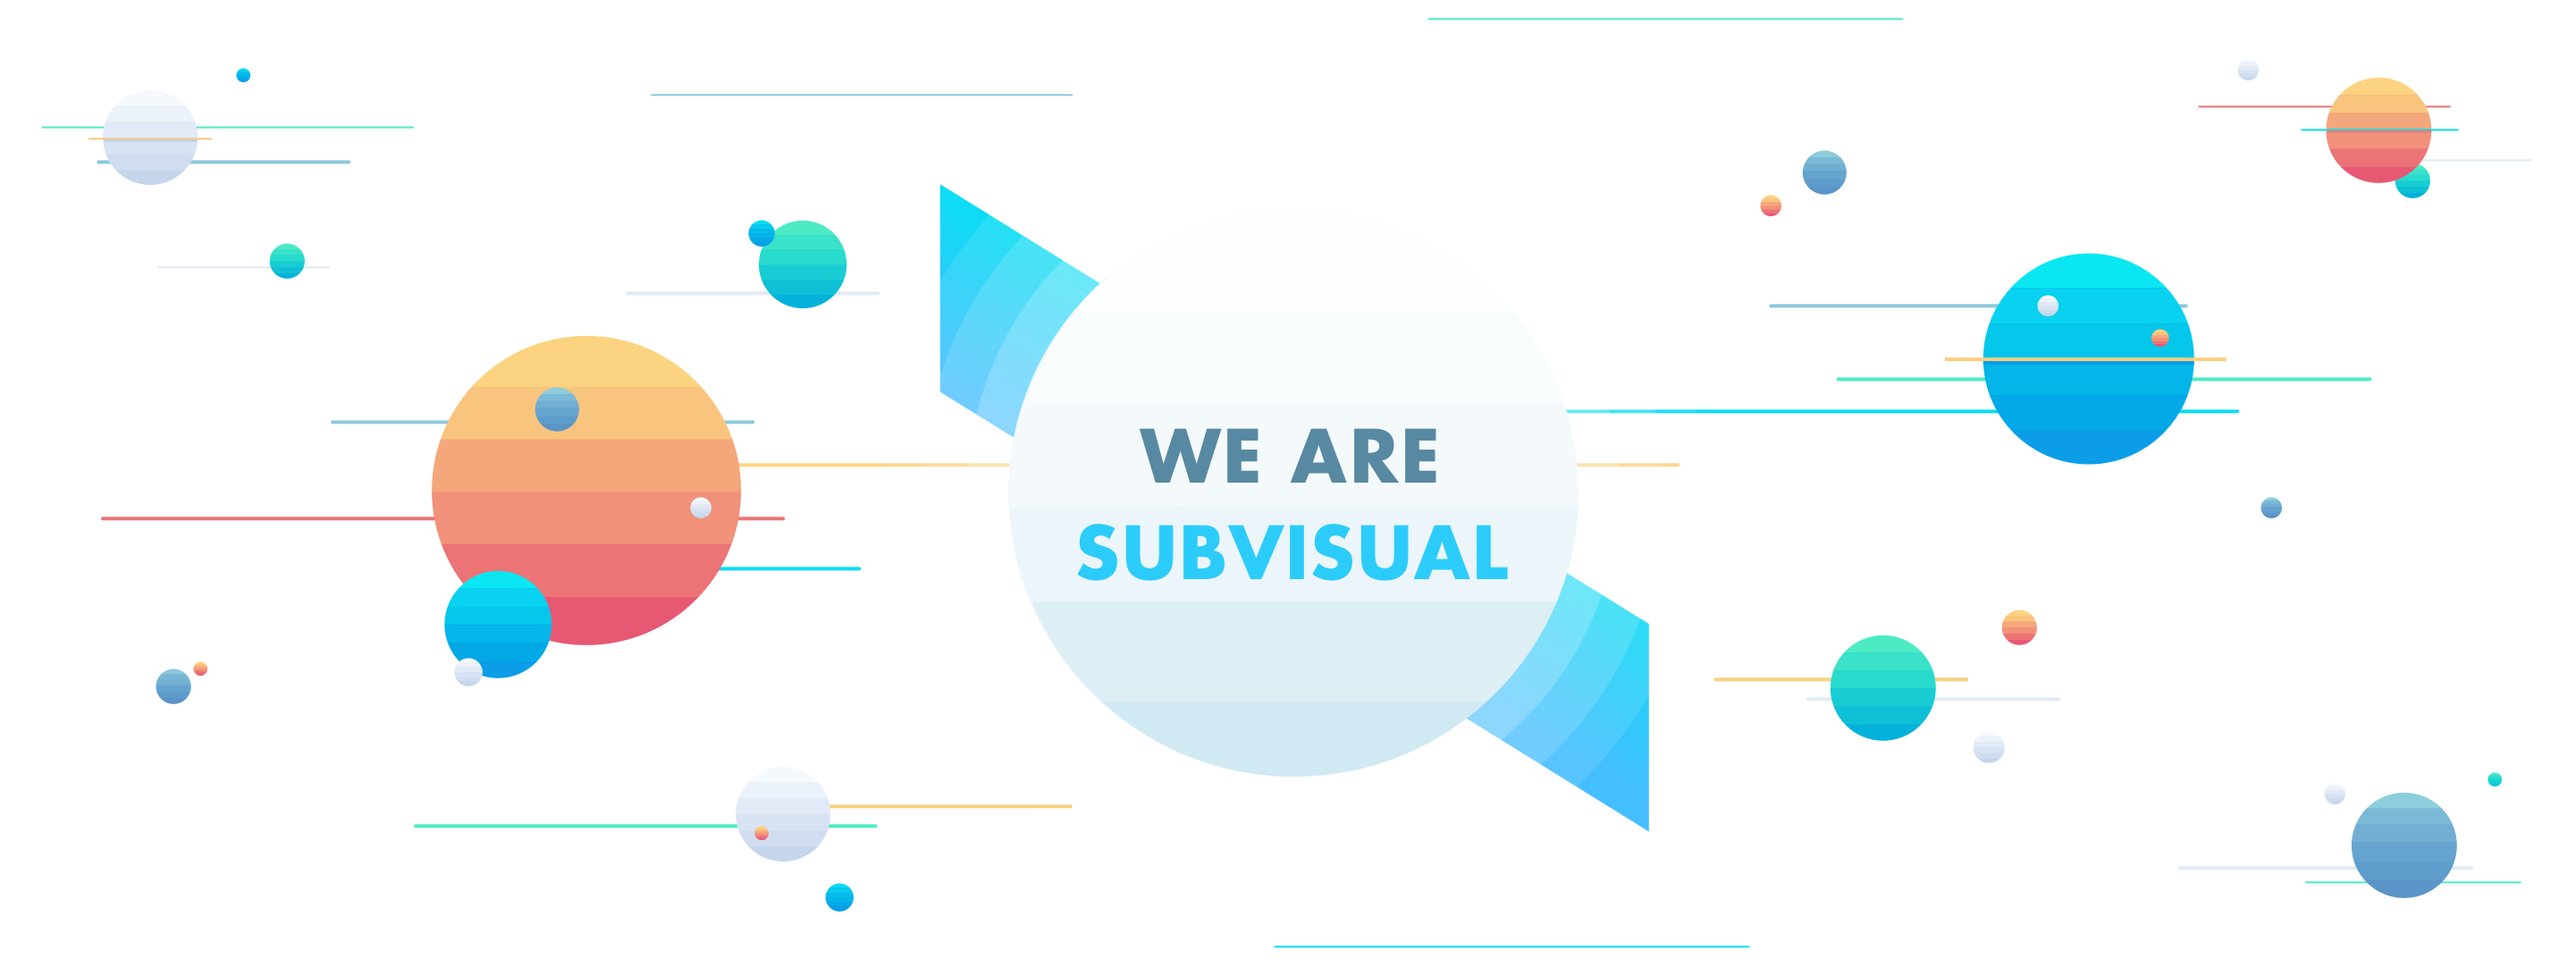
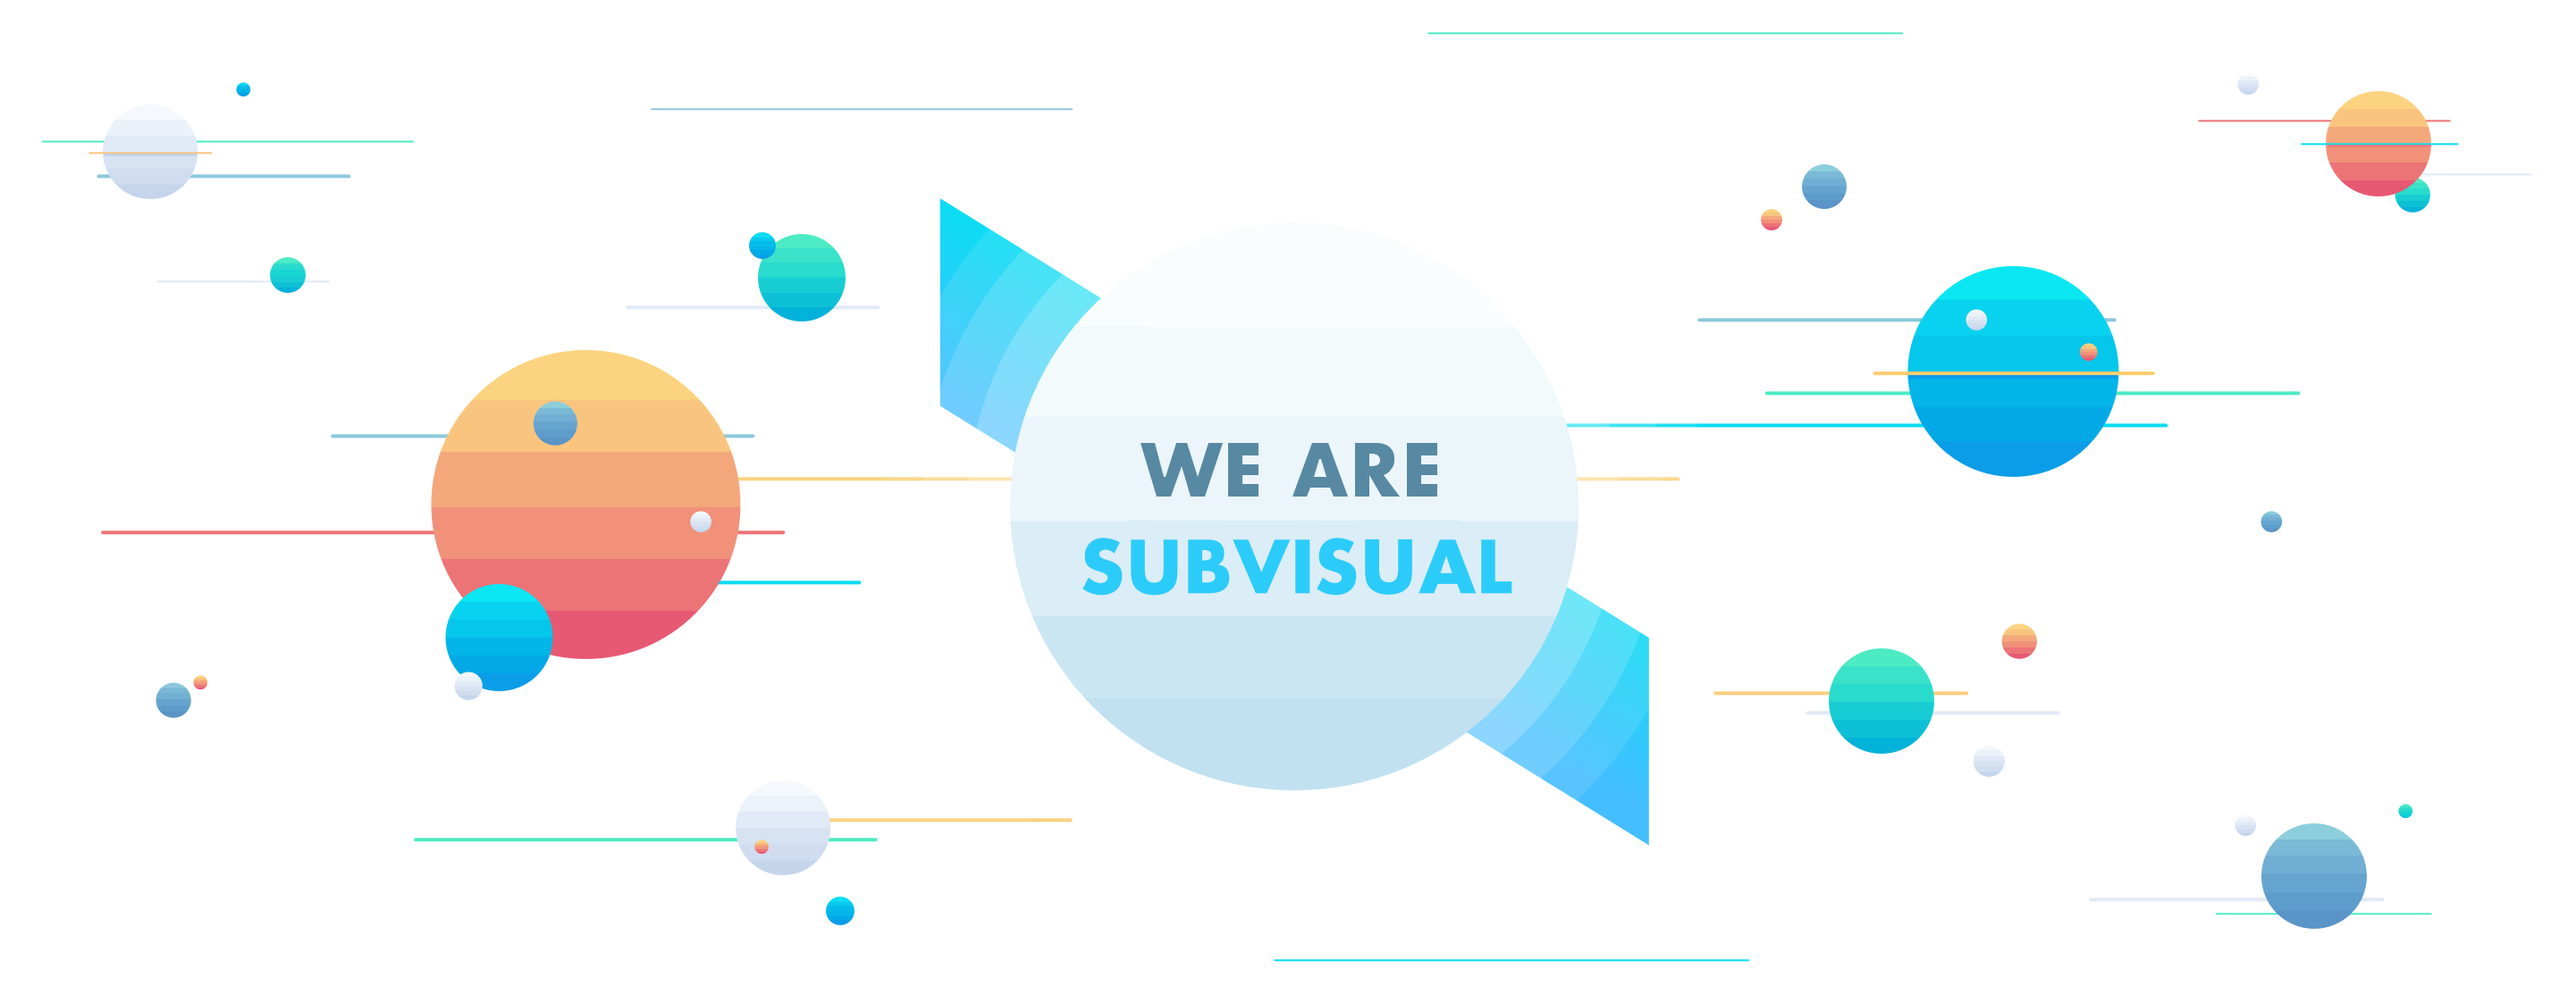
Replaced hero images

diff --git a/source/stylesheets/components/_panel.scss b/source/stylesheets/components/_panel.scss
@@ -2,11 +2,9 @@
 //
 // Full width container with a unique background. The height is defined by the content.
 //
-// .Panel--home - A panel with a background to be used in the homepage
 // .Panel--subvisualCaseStudy - A panel with a background to be used as the subvisual case study
 // .Panel--creatorsSchoolCaseStudy - A panel with a background to be used as the creators school case study
 // .Panel--fishTank - A panel with a background that is a map of our HQ
-// .Panel--company - A panel with a background to be used in the company page
 // .Panel--team - A panel with a background to be used in the team's page
 // .Panel--clients - A panel with a background that is a world map with all of our clients
 // .Panel--creatorsSchool - A panel for the specific case of Creators School event
@@ -21,32 +19,15 @@
 //
 // Styleguide 5.1
 
-.Panel.Panel--home,
 .Panel.Panel--subvisualCaseStudy,
 .Panel.Panel--creatorsSchoolCaseStudy,
 .Panel.Panel--fishTank,
 .Panel.Panel--clients,
 .Panel.Panel--team,
-.Panel.Panel--company,
 .Panel.Panel--secondHome,
 .Panel.Panel--joinUs {
   background-repeat: no-repeat;
   background-size: cover;
-}
-
-.Panel.Panel--home {
-  @include retina-background('homepage/hero-mobile');
-
-  padding-bottom: 84.38%;
-
-  background-color: transparent;
-  background-size: contain;
-
-  @include media('>=tablet') {
-    @include retina-background('homepage/hero-image');
-
-    padding-bottom: 37.54%;
-  }
 }
 
 .Panel.Panel--easyMoneyCaseStudy,
@@ -84,10 +65,6 @@
 
 .Panel.Panel--fishTank {
   @include retina-background('homepage_map.jpg');
-}
-
-.Panel.Panel--company {
-  @include retina-background('company/hero.jpg');
 }
 
 .Panel.Panel--team {
